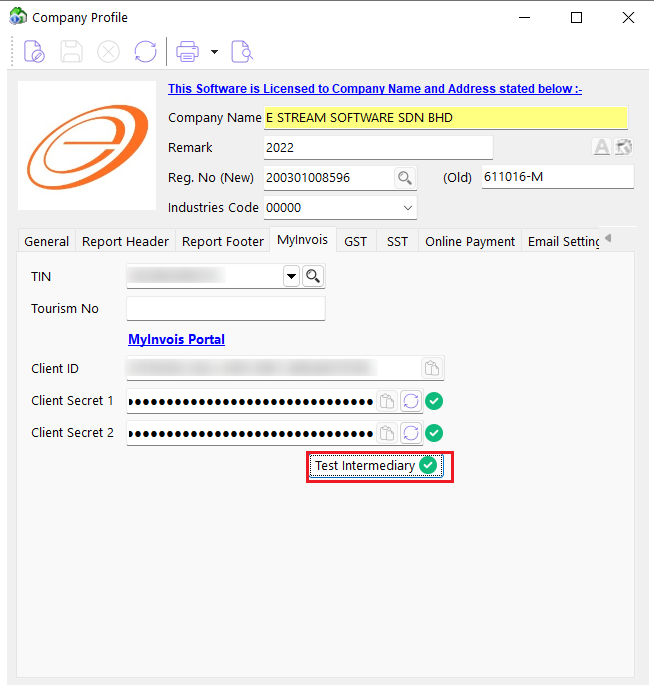
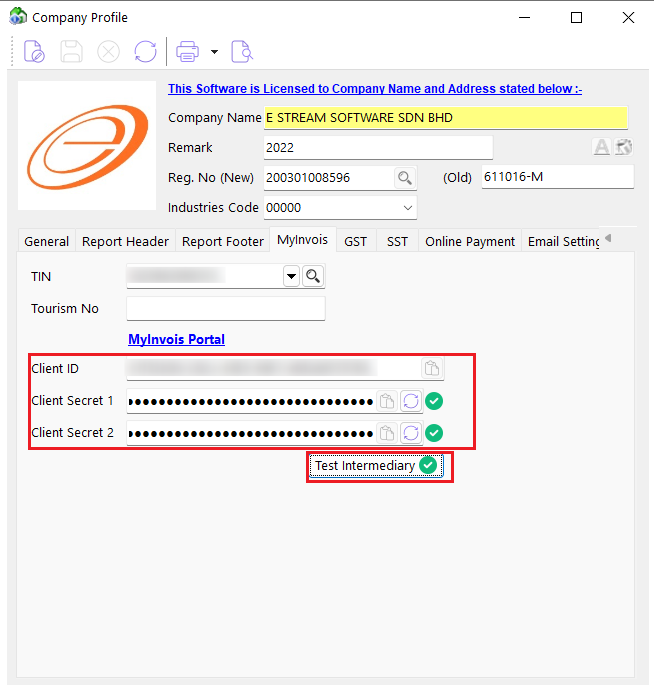
feat: update onboarding guide

Changed region(s): [[0.0306, 0.487, 0.7339, 0.6696]]

diff --git a/docs/usage/myinvois/onboarding.md b/docs/usage/myinvois/onboarding.md
@@ -6,30 +6,56 @@ slug: /usage/myinvois/onboarding
 tags: ["SQL Account", "Usage", "MyInvois", "E-Invoice", "Onboarding"]
 ---
 
-An e-Invoice is a digital representation of a transaction between a supplier and a buyer. e-Invoice replaces paper or electronic documents such as invoices, credit notes, and debit notes.
+To streamline the e-invoice submission through SQL Account, some configuration would be needed in taxpayer's MyInvois Portal.
+
+## Summary
+
+:::info[important]
+
+Please make sure you are accessing the live MyInvois portal at [https://myinvois.hasil.gov.my](https://myinvois.hasil.gov.my).
+
+:::
+
+1. [MyInvois Portal](https://myinvois.hasil.gov.my/) onboard process:
+   - The onboarding request 2 **mandatory** steps A & B shown below.
+
+    ![onboard-summary](../../../static/img/myinvois/onboarding/onboard-summary.png)
+
+2. SQL Account Company Profile setup:
+
+    ![company-profile-myinvois](../../../static/img/myinvois/onboarding/company-profile-myinvois.png)
+
+:::info
+*Please continue reading for **detailed** instructions.*
+:::
 
 ## MyInvois Portal Setup
 
 ### First Time Login
 
-1. Go to the [MyTax Portal](https://mytax.hasil.gov.my).
-2. Select ID type and enter your ID (e.g. NRIC).
-3. Enter your Mytax Portal password and proceed to login.
-4. Access [MyInvois Portal](https://myinvois.hasil.gov.my/).
+1. Go to **File** > **Company Profile** > **MyInvois** > **MyInvois Portal**
+
+    ![myinvois-portal-button](../../../static/img/myinvois/onboarding/myinvois-portal-button.png)
+
+2. Select ID type and enter your ID (e.g. NRIC), then enter password and proceed to login.
+
+    ![myinvois-login](../../../static/img/myinvois/onboarding/mytax-login.png)
+
+3. Access [MyInvois Portal](https://myinvois.hasil.gov.my/).
 
     ![myinvois-button](../../../static/img/myinvois/onboarding/mytax-myinvois-button.png)
 
-5. Read and accept Terms & Conditions.
-6. **Important** You will be directed to create a taxpayer profile, update thee details and **Save**:
+4. Read and accept Terms & Conditions.
+5. **Important** You will be directed to create a taxpayer profile, update the details and **Save**:
    - Make sure Address, Country, State, Postal Code is correct
    - SST registration number
    - Tax registration number
    - Default notification language
    - Notification details
-7. Proceed to create user profile, update the following details if necessary then **Save**:
+6. Proceed to create user profile, update the following details if necessary then **Save**:
    - Default Notification Language
    - Notification E-mail
-8. Once both profiles are created and saved, you will receive a confirmation page. Click **Finish Setup** to continue.
+7. Once both profiles are created and saved, you will receive a confirmation page. Click **Finish Setup** to continue.
 
 ### Register ERP
 
@@ -38,22 +64,24 @@ You will need to register an ERP to obtain the required Client ID & Client Secre
 :::
 
 1. On the top-right corner of the MyInvois Portal, locate the profile dropdown menu. From the options available, choose **View Taxpayer Profile** to access the taxpayer's profile.
-2. Scroll down on the Taxpayer Profile page and click on the **ERP** tab under Representatives to view the system representatives.
 
-    ![myinvois-erp-tab](../../../static/img/myinvois/onboarding/myinvois-erp-tab.png)
+2. Scroll down and click on **Register ERP** to register a new System Representative.
 
-3. Click on **Register ERP** to register a new System Representative.
-4. Input the following details:
-    - **ERP Name**: SQL Account
+    ![myinvois-register-erp-button](../../../static/img/myinvois/onboarding/myinvois-register-erp-button.png)
+
+3. Input the following details:
+    - **ERP Name**: SQL Account ERP
     - **Client Secret Expiration**: 1 Year
+
+    ![myinvois-summary-register-erp-1](../../../static/img/myinvois/onboarding/myinvois-summary-register-erp-1.png)
 
     :::warning[client secret expiration]
     You will need to regenerate the secret after expiration.
     :::
 
-5. Copy the **Client ID** and **Client Secrets** displayed and input into [SQL Account Company Profile](#company-profile), then check the box to confirm that you have copied, then click on **Done**.
+4. Copy the **Client ID** and **Client Secrets** displayed and input into [SQL Account Company Profile](#company-profile), then check the box to confirm that you have copied, then click on **Done**.
 
-    ![myinvois-erp-register-done](../../../static/img/myinvois/onboarding/myinvois-erp-register-success.png)
+    ![myinvois-erp-register-done](../../../static/img/myinvois/onboarding/myinvois-summary-register-erp-2.png)
 
 ### Add Intermediary
 
@@ -62,15 +90,19 @@ You will need to add SQL Account as your intermediary to utilize our **Digital C
 :::
 
 1. On the top-right corner of the MyInvois Portal, locate the profile dropdown menu. From the options available, choose **View Taxpayer Profile** to access the taxpayer's profile.
-2. Scroll down on the Taxpayer Profile page and click on the **Intermediary** tab under Representatives to view the Intermediary Representatives.
-3. Click on **Add Intermediary** and input the following details:
+2. Scroll down and click on **Add Intermediary** to add a new Intermediary.
+
+    ![myinvois-add-intermediary-button](../../../static/img/myinvois/onboarding/myinvois-add-intermediary-button.png)
+
+3. Input the following details and **Continue**:
    - **TIN**: C24050894070
    - **BRN**: 200801024110
-   - **Name**: SQL Account
-4. Click on **Continue**.
-5. Modify the **Representation From** and **Representation To** dates as per your requirement.
-6. Allow all permissions by toggle all radio button to **Yes**.
-7. Click on **Add Intermediary** and you are done.
+   - **Name**: SQL Account ERP
+
+    ![myinvois-summary-register-erp-1](../../../static/img/myinvois/onboarding/myinvois-add-intermediary-1.png)
+
+4. Update the date & permissions and **Save Intermediary**:
+    ![myinvois-summary-register-erp-1](../../../static/img/myinvois/onboarding/myinvois-add-intermediary-2.png)
 
 ## SQL Account Setup
 
